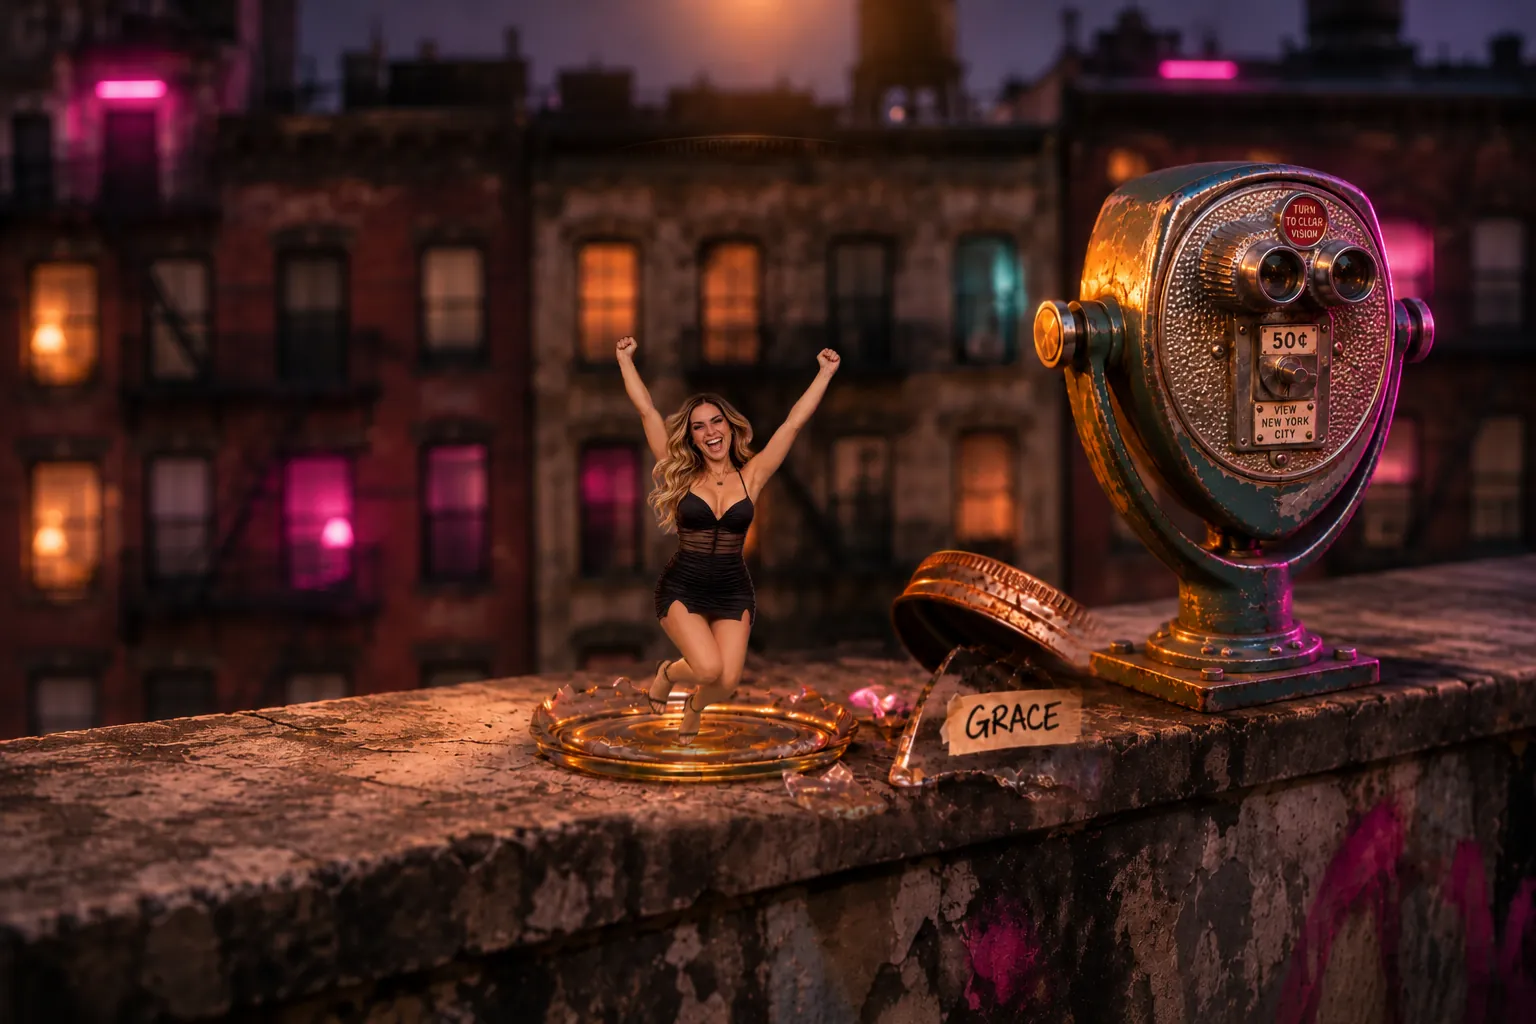
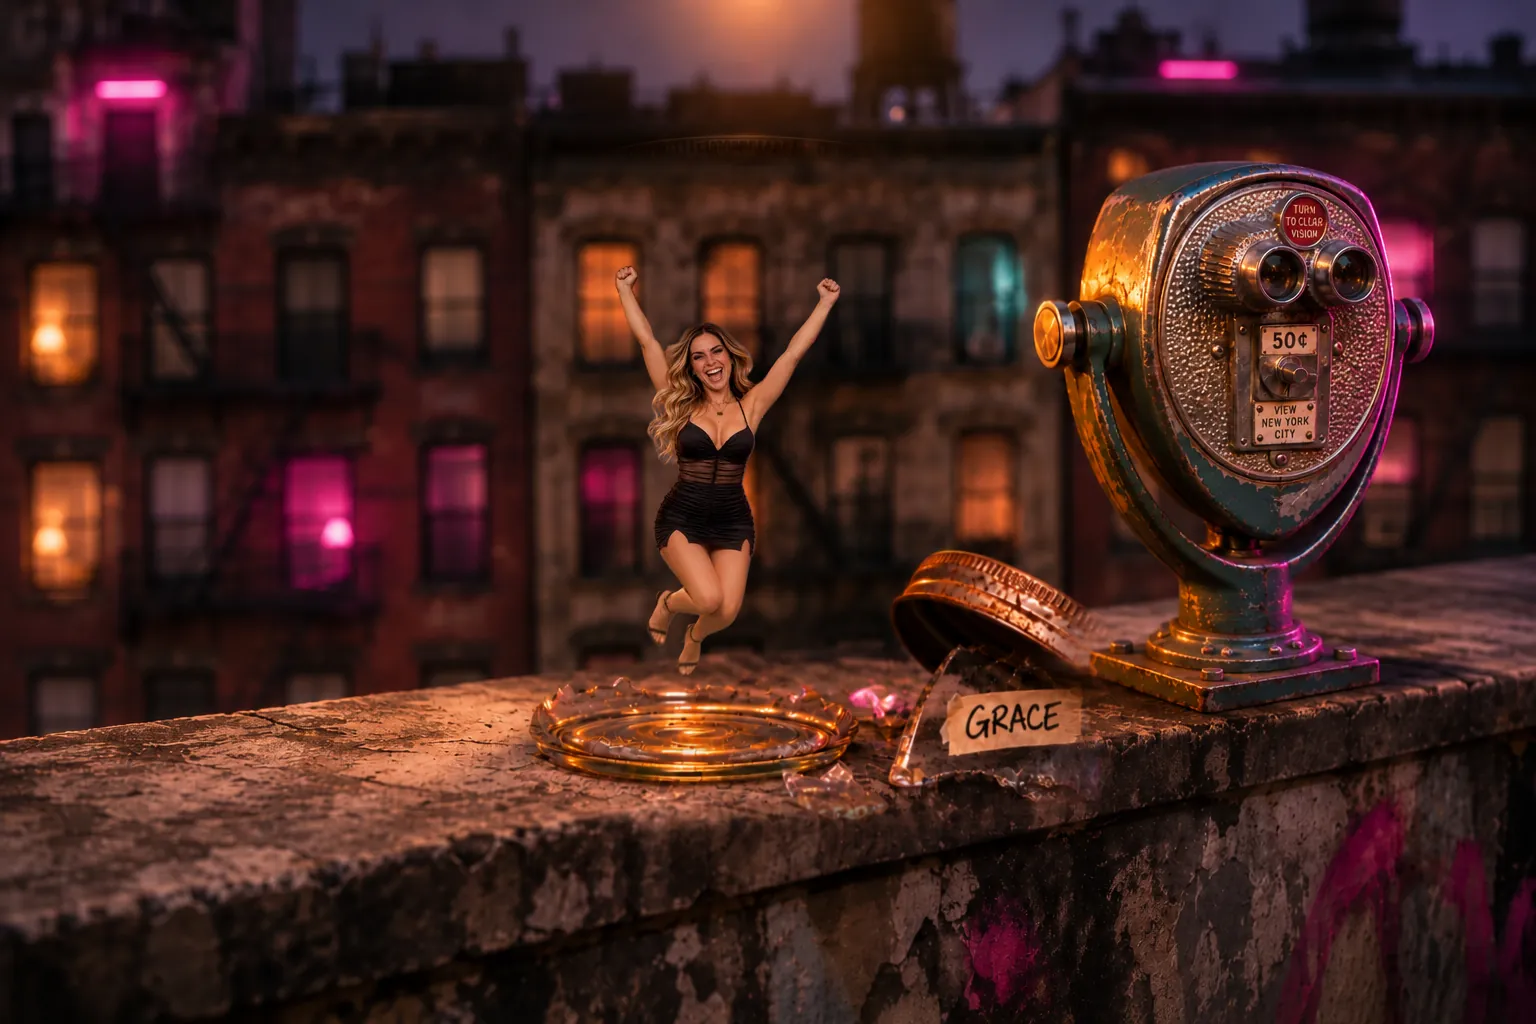
Grace: no jar flash when following her to the lounge; jump frame lifted
Claude-Session: https://claude.ai/code/session_011gssdMsenVXumrh9a32rRB

Changed region(s): [[0.375, 0.25, 0.5625, 0.75], [0.5312, 0.25, 0.5625, 0.3125]]

diff --git a/index.html b/index.html
@@ -1692,7 +1692,7 @@ body.gg-on .lg-panel,body.gg-on .lg-tag,body.gg-on .lg-hint,body.gg-on .lg-swipe
     [["s4-1", "Right there! Keep going!"],["s4-2", "Yes! It's working!"],["s4-3", "You've got this!"],["s4-4", "Almost there!"],["s4-5", "Hit that spot again!"]],
     [["s5-1", "One more hit!"],["s5-2", "Come on, one more."],["s5-3", "Last one. Make it count."],["s5-4", "Ready when you are!"],["s5-5", "One more and I'm all yours\u2026 on the dance floor."]],
     [["free-1", "I'm free! Meet me on the dance floor!"],["free-2", "Woo! Freedom! Dance floor, now!"],["free-3", "My hero! Come dance with me!"],["free-4", "Ha! That's better. See you on the floor!"],["free-5", "Free at last! Lounge, let's go!"]]
-  ].map(st=>st.map(([n,t])=>({src:"img/grace/wide-"+n+".webp?v=8",say:t})));
+  ].map(st=>st.map(([n,t])=>({src:"img/grace/wide-"+n+".webp?v=9",say:t})));
   /* placeholder jar girls (neon silhouettes) share the same break-out */
   const SETS={empty:[[{src:"img/grace/ledge-empty.webp?v=4",say:"The jar’s empty now. She’s downstairs."}]],grace:JX_SET,...{"megan": [[{"src": "img/girls/megan-wide-s0-1.webp?v=3", "say": "I'm not stuck. I'm… resting."}, {"src": "img/girls/megan-wide-s0-2.webp?v=3", "say": "Room 217? Never heard of it."}], [{"src": "img/girls/megan-wide-s1-1.webp?v=3", "say": "That wasn't me, I swear!"}, {"src": "img/girls/megan-wide-s1-2.webp?v=3", "say": "Okay, maybe I'm a little stuck."}], [{"src": "img/girls/megan-wide-s2-1.webp?v=3", "say": "Harder! I'll pay you back. Probably."}, {"src": "img/girls/megan-wide-s2-2.webp?v=3", "say": "Come on, break it!"}], [{"src": "img/girls/megan-wide-s3-1.webp?v=3", "say": "Watch the glass!"}, {"src": "img/girls/megan-wide-s3-2.webp?v=3", "say": "Easy, easy!"}], [{"src": "img/girls/megan-wide-s4-1.webp?v=3", "say": "You're doing amazing. Not lying."}, {"src": "img/girls/megan-wide-s4-2.webp?v=3", "say": "Almost there!"}], [{"src": "img/girls/megan-wide-s5-1.webp?v=3", "say": "One more. Cross my heart."}, {"src": "img/girls/megan-wide-s5-2.webp?v=3", "say": "Last one, promise!"}], [{"src": "img/girls/megan-wide-free-1.webp?v=3", "say": "Free! Drinks are on me. (They're not.)"}]], "gianna": [[{"src": "img/girls/gianna-wide-s0-1.webp?v=3", "say": "How long have I been in here?"}, {"src": "img/girls/gianna-wide-s0-2.webp?v=3", "say": "Tick tock… anyone?"}], [{"src": "img/girls/gianna-wide-s1-1.webp?v=3", "say": "Finally! I was counting the seconds."}, {"src": "img/girls/gianna-wide-s1-2.webp?v=3", "say": "It's about time!"}], [{"src": "img/girls/gianna-wide-s2-1.webp?v=3", "say": "Faster! We're losing time!"}, {"src": "img/girls/gianna-wide-s2-2.webp?v=3", "say": "Come on, hurry!"}], [{"src": "img/girls/gianna-wide-s3-1.webp?v=3", "say": "Careful, careful!"}, {"src": "img/girls/gianna-wide-s3-2.webp?v=3", "say": "Watch my watch!"}], [{"src": "img/girls/gianna-wide-s4-1.webp?v=3", "say": "Just a matter of time now!"}, {"src": "img/girls/gianna-wide-s4-2.webp?v=3", "say": "Keep going!"}], [{"src": "img/girls/gianna-wide-s5-1.webp?v=3", "say": "One more! Right on time."}, {"src": "img/girls/gianna-wide-s5-2.webp?v=3", "say": "Now!"}], [{"src": "img/girls/gianna-wide-free-1.webp?v=3", "say": "Free at last. Let's not waste a minute!"}]], "sophia": [[{"src": "img/girls/sophia-wide-s0-1.webp?v=3", "say": "Get me back to the band!"}, {"src": "img/girls/sophia-wide-s0-2.webp?v=3", "say": "Psst! Over here!"}], [{"src": "img/girls/sophia-wide-s1-1.webp?v=3", "say": "Whoa! Was that you?"}, {"src": "img/girls/sophia-wide-s1-2.webp?v=3", "say": "It cracked!"}], [{"src": "img/girls/sophia-wide-s2-1.webp?v=3", "say": "Yes! Again!"}, {"src": "img/girls/sophia-wide-s2-2.webp?v=3", "say": "Hit it!"}], [{"src": "img/girls/sophia-wide-s3-1.webp?v=3", "say": "Eek, that was close!"}, {"src": "img/girls/sophia-wide-s3-2.webp?v=3", "say": "Mind my hair!"}], [{"src": "img/girls/sophia-wide-s4-1.webp?v=3", "say": "I can almost feel the breeze!"}, {"src": "img/girls/sophia-wide-s4-2.webp?v=3", "say": "Keep going!"}], [{"src": "img/girls/sophia-wide-s5-1.webp?v=3", "say": "One more and I'm gone!"}, {"src": "img/girls/sophia-wide-s5-2.webp?v=3", "say": "Do it!"}], [{"src": "img/girls/sophia-wide-free-1.webp?v=3", "say": "Back where I belong! Lounge, here I come!"}]]}}, GIRLS={"megan": {"name": "Megan", "col": "#ff3b48"}, "gianna": {"name": "Gianna", "col": "#2cff9a"}, "sophia": {"name": "Sophia", "col": "#ff963c"}}, FREED=new Set(); let GIRL="grace", CJ=jar;
   const jxPick=s=>{ const a=SETS[GIRL][s]; return a[Math.floor(Math.random()*a.length)]; };
@@ -1789,7 +1789,7 @@ body.gg-on .lg-panel,body.gg-on .lg-tag,body.gg-on .lg-hint,body.gg-on .lg-swipe
       setTimeout(()=>{ jxFreed=true; JX.classList.add("freed"); $("jx-tip").textContent=GIRL==="grace"?"She's free!":(GIRLS[GIRL]?GIRLS[GIRL].name:"She")+" is free!"; $("jx-x").textContent="✕ Close"; const b=$("jx-go"); b.hidden=false; b.focus({preventScroll:true}); },900); },120); }
   /* after the break she waits on the ledge until you tap her, the button, or close: then she heads to the lounge */
   let jxFreed=false;
-  function jxGo(){ if(!jxFreed) return; jxFreed=false; $("jx-go").hidden=true; JX.classList.remove("freed"); jxBusy=false; closeJar(); if(GIRL==="grace") freeGrace(); else freeGirl(GIRL,CJ); }
+  function jxGo(){ if(!jxFreed) return; jxFreed=false; $("jx-go").hidden=true; JX.classList.remove("freed"); jxBusy=false; const je=GIRL==="grace"?jar:CJ; if(je) je.hidden=true; if(GIRL==="grace") ['jar-glow','jar-help'].forEach(i=>{ const e=$(i); e&&e.classList.add('gone'); }); closeJar(); if(GIRL==="grace") freeGrace(); else freeGirl(GIRL,CJ); }
   $("jx-go").addEventListener("click",e=>{ e.stopPropagation(); jxGo(); });
   function freeGirl(g,el){ FREED.add(g); window.MSSecret&&window.MSSecret(g); el.classList.add("smash"); setTimeout(()=>{ el.hidden=true; },460);
     const sx=parseFloat(el.style.left)+18, sy=parseFloat(el.style.top)+60, fr=[1,2,3,4,5,6,7,8].map(i=>`img/girls/${g}-d${i}.webp`);
